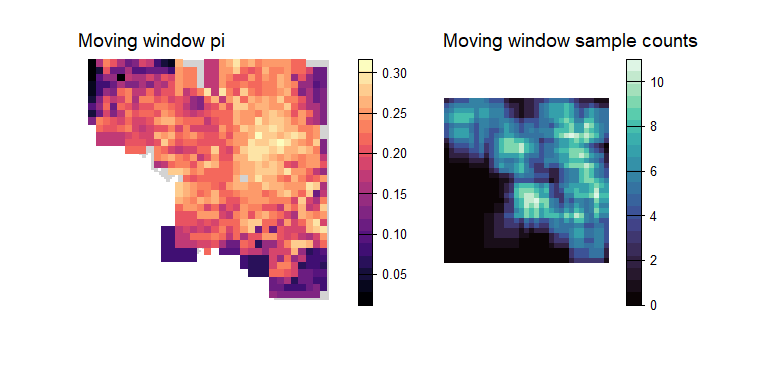
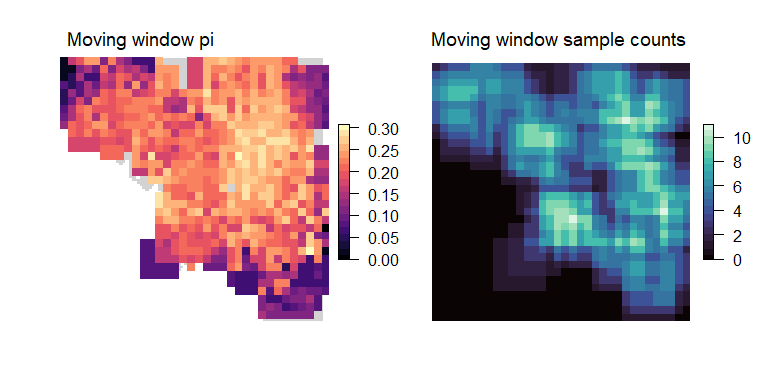
update readme

diff --git a/README.md b/README.md
@@ -32,7 +32,7 @@ devtools::install_github("AnushaPB/wingen", build_vignettes = TRUE)
 
 The following example demonstrates the basic functionality of wingen
 using a **small subset (100 variant loci x 100 samples) of the simulated
-data from Bishop et al. (submitted)**.
+data from Bishop et al. (in review)**.
 
 ``` r
 library(wingen)
@@ -62,9 +62,9 @@ wgd <- window_gd(lotr_vcf,
 )
 
 # Use plot_gd() to plot the genetic diversity layer and plot_count() to plot the sample counts layer
-par(mfrow = c(1, 2), oma = rep(1, 4), mar = rep(2, 4))
+par(mfrow = c(1, 2), oma = rep(1, 4), mar = rep(2, 4), pty = "s")
 plot_gd(wgd, bkg = lotr_range, main = "Moving window pi", legend.width = 1.5)
-plot_count(wgd, main = "Moving window sample counts", legend.width = 1.5)
+plot_count(wgd, bkg = lotr_range, main = "Moving window sample counts", legend.width = 1.5)
 ```
 
 <img src="man/figures/README-window_gd-1.png" width="100%" />
@@ -74,13 +74,10 @@ with the `krig_gd()` function.
 
 ``` r
 # Krige genetic diversity (disaggregate grid to project across a smoother final surface)
-kgd <- krig_gd(wgd[["pi"]], lotr_lyr, disagg_grd = 2)
-# Krige counts (aggregate input raster to decrease computational time)
-kgd_counts <- krig_gd(wgd[["sample_count"]], lotr_lyr, agg_r = 2, disagg_grd = 2)
+kgd <- krig_gd(wgd, lotr_lyr, index = 1, disagg_grd = 2)
 
-par(mfrow = c(1, 2), oma = rep(1, 4), mar = rep(2, 4))
+par(mfrow = c(1, 2), oma = rep(1, 4), mar = rep(2, 4), pty = "s")
 plot_gd(kgd, main = "Kriged pi", legend.width = 1.5)
-plot_count(kgd_counts, main = "Kriged sample counts", legend.width = 1.5)
 ```
 
 <img src="man/figures/README-krig_gd-1.png" width="100%" />
@@ -91,17 +88,13 @@ undersampled.
 
 ``` r
 # Mask results that fall outside of the "range"
-mgd_lyr <- mask_gd(kgd, lotr_range)
-
-# Further mask results in areas where the sample count was less than minval
-mgd_counts <- mask_gd(mgd_lyr, kgd_counts, minval = 2)
+mgd <- mask_gd(kgd, lotr_range)
 ```
 
 ``` r
 # Plot results
-par(mfrow = c(1, 2), oma = rep(1, 4), mar = rep(2, 4))
-plot_gd(mgd_lyr, main = "Masked pi (range)", legend.width = 1.5)
-plot_gd(mgd_counts, bkg = lotr_range, main = "Masked pi (sample counts + range)", legend.width = 1.5)
+par(mfrow = c(1, 2), oma = rep(1, 4), mar = rep(2, 4), pty = "s")
+plot_gd(mgd, bkg = lotr_range, main = "Masked pi", legend.width = 1.5)
 ```
 
 <img src="man/figures/README-result-1.png" width="100%" />
@@ -111,6 +104,8 @@ For an extended walk through, see the package vignette:
 ``` r
 vignette("wingen-vignette")
 ```
+
+A pdf of the vignette can also be found here:
 
 Example analyses from Bishop et al. can be found in the
 [paperex](https://github.com/AnushaPB/wingen/tree/main/paperex)
